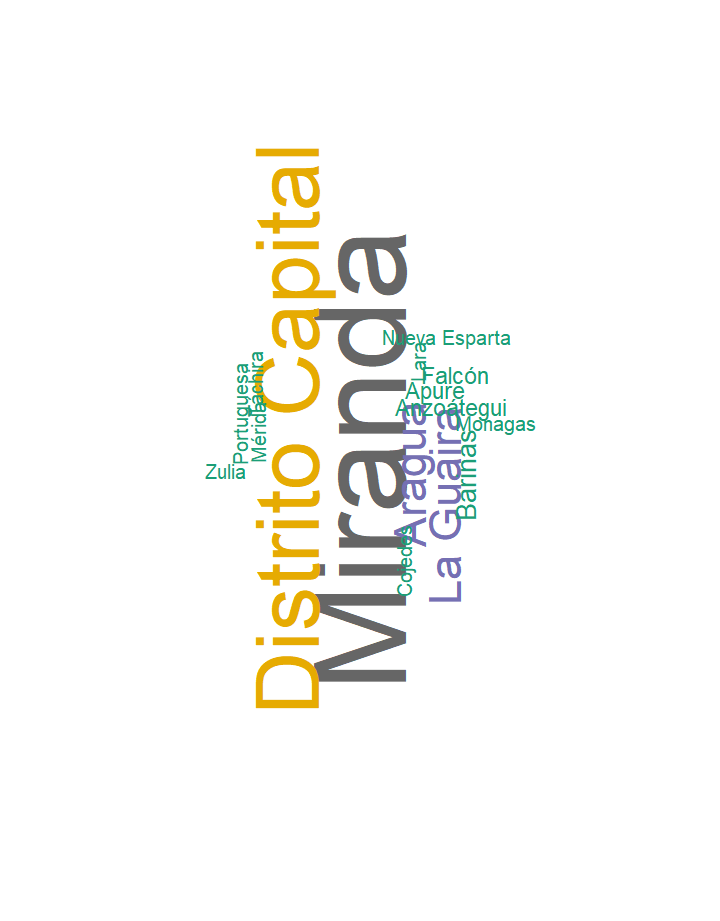
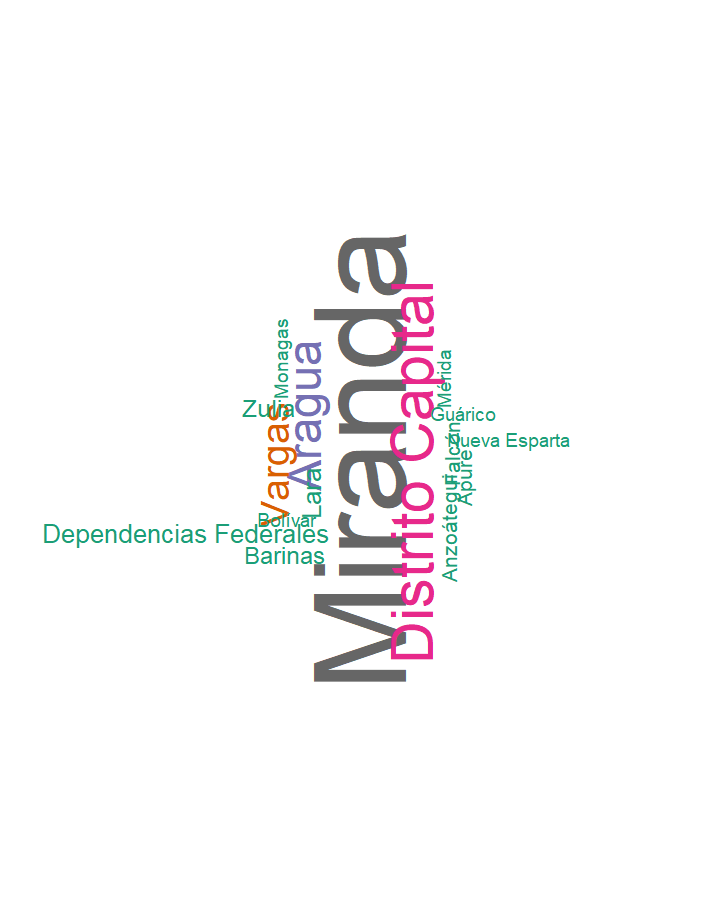
updating cases and modifying script

Changed region(s): [[0.0611, 0.152, 0.4583, 0.7904], [0.5194, 0.304, 0.7944, 0.7296]]

diff --git a/docs/index.html b/docs/index.html
@@ -2607,14 +2607,14 @@ window.FlexDashboardComponents.push({
 <div class="knitr-options" data-fig-width="576" data-fig-height="460">
 
 </div>
-<span class="value-output" data-caption="Total Confirmed Cases" data-icon="fas fa-stethoscope" data-color="Purple">84</span>
+<span class="value-output" data-caption="Total Confirmed Cases" data-icon="fas fa-stethoscope" data-color="Purple">107</span>
 </div>
 <div id="active" class="section level3 value-box">
 <h3>active</h3>
 <div class="knitr-options" data-fig-width="576" data-fig-height="460">
 
 </div>
-<span class="value-output" data-caption="Active Cases" data-icon="fas fa-medkit" data-color="Orange">69</span>
+<span class="value-output" data-caption="Active Cases" data-icon="fas fa-medkit" data-color="Orange">92</span>
 </div>
 <div id="recovered" class="section level3 value-box">
 <h3>recovered</h3>
@@ -2628,7 +2628,7 @@ window.FlexDashboardComponents.push({
 <div class="knitr-options" data-fig-width="576" data-fig-height="460">
 
 </div>
-<span class="value-output" data-caption="Death Cases" data-icon="fas fa-heartbeat" data-color="red">0</span>
+<span class="value-output" data-caption="Death Cases" data-icon="fas fa-heartbeat" data-color="red">1</span>
 </div>
 </div>
 <div id="column-1" class="section level2" data-width="650">
@@ -2638,16 +2638,16 @@ window.FlexDashboardComponents.push({
 <div class="knitr-options" data-fig-width="576" data-fig-height="460">
 
 </div>
-<div id="htmlwidget-d626dc5971321712921a" style="width:576px;height:460.8px;" class="plotly html-widget"></div>
-<script type="application/json" data-for="htmlwidget-d626dc5971321712921a">{"x":{"visdat":{"1be857ef6e60":["function () ","plotlyVisDat"]},"cur_data":"1be857ef6e60","attrs":{"1be857ef6e60":{"x":{},"y":{},"mode":"lines+markers","marker":{"color":"black","size":10},"line":{"color":"black"},"alpha_stroke":1,"sizes":[10,100],"spans":[1,20],"type":"scatter"}},"layout":{"margin":{"b":40,"l":60,"t":25,"r":10},"xaxis":{"domain":[0,1],"automargin":true,"title":"Dates","type":"category","categoryorder":"array","categoryarray":["13-03-2020","14-03-2020","15-03-2020","16-03-2020","17-03-2020","18-03-2020","19-03-2020","21-03-2020","22-03-2020","23-03-2020"]},"yaxis":{"domain":[0,1],"automargin":true,"title":"CasesPerDay"},"hovermode":"closest","showlegend":false},"source":"A","config":{"showSendToCloud":false},"data":[{"x":["13-03-2020","14-03-2020","15-03-2020","16-03-2020","17-03-2020","18-03-2020","19-03-2020","21-03-2020","22-03-2020","23-03-2020"],"y":[2,8,7,16,3,0,6,28,7,7],"mode":"lines+markers","marker":{"color":"black","size":10,"line":{"color":"rgba(31,119,180,1)"}},"line":{"color":"black"},"type":"scatter","error_y":{"color":"rgba(31,119,180,1)"},"error_x":{"color":"rgba(31,119,180,1)"},"xaxis":"x","yaxis":"y","frame":null}],"highlight":{"on":"plotly_click","persistent":false,"dynamic":false,"selectize":false,"opacityDim":0.2,"selected":{"opacity":1},"debounce":0},"shinyEvents":["plotly_hover","plotly_click","plotly_selected","plotly_relayout","plotly_brushed","plotly_brushing","plotly_clickannotation","plotly_doubleclick","plotly_deselect","plotly_afterplot","plotly_sunburstclick"],"base_url":"https://plot.ly"},"evals":[],"jsHooks":[]}</script>
+<div id="htmlwidget-51d7a6373f06e38b45ea" style="width:576px;height:460.8px;" class="plotly html-widget"></div>
+<script type="application/json" data-for="htmlwidget-51d7a6373f06e38b45ea">{"x":{"visdat":{"16d029985a2":["function () ","plotlyVisDat"]},"cur_data":"16d029985a2","attrs":{"16d029985a2":{"x":{},"y":{},"mode":"lines+markers","marker":{"color":"black","size":10},"line":{"color":"black"},"alpha_stroke":1,"sizes":[10,100],"spans":[1,20],"type":"scatter"}},"layout":{"margin":{"b":40,"l":60,"t":25,"r":10},"xaxis":{"domain":[0,1],"automargin":true,"title":"Dates","type":"category","categoryorder":"array","categoryarray":["13-03-2020","14-03-2020","15-03-2020","16-03-2020","17-03-2020","18-03-2020","19-03-2020","21-03-2020","22-03-2020","23-03-2020","24-03-2020","25-03-2020","26-03-2020"]},"yaxis":{"domain":[0,1],"automargin":true,"title":"CasesPerDay"},"hovermode":"closest","showlegend":false},"source":"A","config":{"showSendToCloud":false},"data":[{"x":["13-03-2020","14-03-2020","15-03-2020","16-03-2020","17-03-2020","18-03-2020","19-03-2020","21-03-2020","22-03-2020","23-03-2020","24-03-2020","25-03-2020","26-03-2020"],"y":[2,8,7,16,3,0,6,28,7,7,7,15,1],"mode":"lines+markers","marker":{"color":"black","size":10,"line":{"color":"rgba(31,119,180,1)"}},"line":{"color":"black"},"type":"scatter","error_y":{"color":"rgba(31,119,180,1)"},"error_x":{"color":"rgba(31,119,180,1)"},"xaxis":"x","yaxis":"y","frame":null}],"highlight":{"on":"plotly_click","persistent":false,"dynamic":false,"selectize":false,"opacityDim":0.2,"selected":{"opacity":1},"debounce":0},"shinyEvents":["plotly_hover","plotly_click","plotly_selected","plotly_relayout","plotly_brushed","plotly_brushing","plotly_clickannotation","plotly_doubleclick","plotly_deselect","plotly_afterplot","plotly_sunburstclick"],"base_url":"https://plot.ly"},"evals":[],"jsHooks":[]}</script>
 </div>
 <div id="total-cases-per-day" class="section level3">
 <h3>Total Cases per day</h3>
 <div class="knitr-options" data-fig-width="576" data-fig-height="460">
 
 </div>
-<div id="htmlwidget-a0065228432e3bac99d8" style="width:576px;height:460.8px;" class="plotly html-widget"></div>
-<script type="application/json" data-for="htmlwidget-a0065228432e3bac99d8">{"x":{"visdat":{"1be85dbd2da8":["function () ","plotlyVisDat"]},"cur_data":"1be85dbd2da8","attrs":{"1be85dbd2da8":{"x":{},"y":{},"text":{},"marker":{"color":"#FFA500"},"textposition":"auto","name":"Active","alpha_stroke":1,"sizes":[10,100],"spans":[1,20],"type":"bar"}},"layout":{"margin":{"b":40,"l":60,"t":25,"r":10},"xaxis":{"domain":[0,1],"automargin":true,"title":"Dates","type":"category","categoryorder":"array","categoryarray":["13-03-2020","14-03-2020","15-03-2020","16-03-2020","17-03-2020","18-03-2020","19-03-2020","21-03-2020","22-03-2020","23-03-2020"]},"yaxis":{"domain":[0,1],"automargin":true,"title":"AcumulativeSum"},"hovermode":"closest","showlegend":false},"source":"A","config":{"showSendToCloud":false},"data":[{"x":["13-03-2020","14-03-2020","15-03-2020","16-03-2020","17-03-2020","18-03-2020","19-03-2020","21-03-2020","22-03-2020","23-03-2020"],"y":[2,10,17,33,36,36,42,70,77,84],"text":[2,10,17,33,36,36,42,70,77,84],"marker":{"color":"#FFA500","line":{"color":"rgba(31,119,180,1)"}},"textposition":["auto","auto","auto","auto","auto","auto","auto","auto","auto","auto"],"name":"Active","type":"bar","error_y":{"color":"rgba(31,119,180,1)"},"error_x":{"color":"rgba(31,119,180,1)"},"xaxis":"x","yaxis":"y","frame":null}],"highlight":{"on":"plotly_click","persistent":false,"dynamic":false,"selectize":false,"opacityDim":0.2,"selected":{"opacity":1},"debounce":0},"shinyEvents":["plotly_hover","plotly_click","plotly_selected","plotly_relayout","plotly_brushed","plotly_brushing","plotly_clickannotation","plotly_doubleclick","plotly_deselect","plotly_afterplot","plotly_sunburstclick"],"base_url":"https://plot.ly"},"evals":[],"jsHooks":[]}</script>
+<div id="htmlwidget-259cb05514dc0cac0a37" style="width:576px;height:460.8px;" class="plotly html-widget"></div>
+<script type="application/json" data-for="htmlwidget-259cb05514dc0cac0a37">{"x":{"visdat":{"16d06292724c":["function () ","plotlyVisDat"]},"cur_data":"16d06292724c","attrs":{"16d06292724c":{"x":{},"y":{},"text":{},"marker":{"color":"#FFA500"},"textposition":"auto","name":"Active","alpha_stroke":1,"sizes":[10,100],"spans":[1,20],"type":"bar"}},"layout":{"margin":{"b":40,"l":60,"t":25,"r":10},"xaxis":{"domain":[0,1],"automargin":true,"title":"Dates","type":"category","categoryorder":"array","categoryarray":["13-03-2020","14-03-2020","15-03-2020","16-03-2020","17-03-2020","18-03-2020","19-03-2020","21-03-2020","22-03-2020","23-03-2020","24-03-2020","25-03-2020","26-03-2020"]},"yaxis":{"domain":[0,1],"automargin":true,"title":"AcumulativeSum"},"hovermode":"closest","showlegend":false},"source":"A","config":{"showSendToCloud":false},"data":[{"x":["13-03-2020","14-03-2020","15-03-2020","16-03-2020","17-03-2020","18-03-2020","19-03-2020","21-03-2020","22-03-2020","23-03-2020","24-03-2020","25-03-2020","26-03-2020"],"y":[2,10,17,33,36,36,42,70,77,84,91,106,107],"text":[2,10,17,33,36,36,42,70,77,84,91,106,107],"marker":{"color":"#FFA500","line":{"color":"rgba(31,119,180,1)"}},"textposition":["auto","auto","auto","auto","auto","auto","auto","auto","auto","auto","auto","auto","auto"],"name":"Active","type":"bar","error_y":{"color":"rgba(31,119,180,1)"},"error_x":{"color":"rgba(31,119,180,1)"},"xaxis":"x","yaxis":"y","frame":null}],"highlight":{"on":"plotly_click","persistent":false,"dynamic":false,"selectize":false,"opacityDim":0.2,"selected":{"opacity":1},"debounce":0},"shinyEvents":["plotly_hover","plotly_click","plotly_selected","plotly_relayout","plotly_brushed","plotly_brushing","plotly_clickannotation","plotly_doubleclick","plotly_deselect","plotly_afterplot","plotly_sunburstclick"],"base_url":"https://plot.ly"},"evals":[],"jsHooks":[]}</script>
 </div>
 </div>
 </div>
@@ -2660,8 +2660,8 @@ window.FlexDashboardComponents.push({
 <div class="knitr-options" data-fig-width="576" data-fig-height="460">
 
 </div>
-<div id="htmlwidget-475d8c055066a8c6469b" style="width:576px;height:460.8px;" class="plotly html-widget"></div>
-<script type="application/json" data-for="htmlwidget-475d8c055066a8c6469b">{"x":{"visdat":{"1be866c2585a":["function () ","plotlyVisDat"]},"cur_data":"1be866c2585a","attrs":{"1be866c2585a":{"x":{},"y":{},"text":{},"marker":{"color":"purple"},"textposition":"auto","alpha_stroke":1,"sizes":[10,100],"spans":[1,20],"type":"bar"}},"layout":{"margin":{"b":40,"l":60,"t":25,"r":10},"xaxis":{"domain":[0,1],"automargin":true,"title":"state","type":"category","categoryorder":"array","categoryarray":["Miranda","Distrito Capital","Aragua","La Guaira","Barinas","Anzoátegui","Apure","Falcón","Cojedes","Lara","Mérida","Monagas","Nueva Esparta","Portuguesa","Táchira","Zulia"]},"yaxis":{"domain":[0,1],"automargin":true,"title":"CasesPerState"},"hovermode":"closest","showlegend":false},"source":"A","config":{"showSendToCloud":false},"data":[{"x":["Distrito Capital","Anzoátegui","Apure","Aragua","Barinas","Cojedes","Falcón","Lara","La Guaira","Mérida","Miranda","Monagas","Nueva Esparta","Portuguesa","Táchira","Zulia"],"y":[20,2,2,8,3,1,2,1,8,1,31,1,1,1,1,1],"text":[20,2,2,8,3,1,2,1,8,1,31,1,1,1,1,1],"marker":{"color":"purple","line":{"color":"rgba(31,119,180,1)"}},"textposition":["auto","auto","auto","auto","auto","auto","auto","auto","auto","auto","auto","auto","auto","auto","auto","auto"],"type":"bar","error_y":{"color":"rgba(31,119,180,1)"},"error_x":{"color":"rgba(31,119,180,1)"},"xaxis":"x","yaxis":"y","frame":null}],"highlight":{"on":"plotly_click","persistent":false,"dynamic":false,"selectize":false,"opacityDim":0.2,"selected":{"opacity":1},"debounce":0},"shinyEvents":["plotly_hover","plotly_click","plotly_selected","plotly_relayout","plotly_brushed","plotly_brushing","plotly_clickannotation","plotly_doubleclick","plotly_deselect","plotly_afterplot","plotly_sunburstclick"],"base_url":"https://plot.ly"},"evals":[],"jsHooks":[]}</script>
+<div id="htmlwidget-eda054c7bda5236df7ce" style="width:576px;height:460.8px;" class="plotly html-widget"></div>
+<script type="application/json" data-for="htmlwidget-eda054c7bda5236df7ce">{"x":{"visdat":{"16d0524c1ee9":["function () ","plotlyVisDat"]},"cur_data":"16d0524c1ee9","attrs":{"16d0524c1ee9":{"x":{},"y":{},"text":{},"marker":{"color":"purple"},"textposition":"auto","alpha_stroke":1,"sizes":[10,100],"spans":[1,20],"type":"bar"}},"layout":{"margin":{"b":40,"l":60,"t":25,"r":10},"xaxis":{"domain":[0,1],"automargin":true,"title":"state","type":"category","categoryorder":"array","categoryarray":["Miranda","Distrito Capital","Aragua","Vargas","Lara","Dependencias Federales","Barinas","Zulia","Anzoátegui","Apure","Falcón","Bolívar","Guárico","Mérida","Monagas","Nueva Esparta"]},"yaxis":{"domain":[0,1],"automargin":true,"title":"CasesPerState"},"hovermode":"closest","showlegend":false},"source":"A","config":{"showSendToCloud":false},"data":[{"x":["Distrito Capital","Anzoátegui","Apure","Aragua","Barinas","Bolívar","Falcón","Guárico","Lara","Mérida","Miranda","Monagas","Nueva Esparta","Vargas","Zulia","Dependencias Federales"],"y":[17,2,2,12,3,1,2,1,4,1,44,1,1,9,3,4],"text":[17,2,2,12,3,1,2,1,4,1,44,1,1,9,3,4],"marker":{"color":"purple","line":{"color":"rgba(31,119,180,1)"}},"textposition":["auto","auto","auto","auto","auto","auto","auto","auto","auto","auto","auto","auto","auto","auto","auto","auto"],"type":"bar","error_y":{"color":"rgba(31,119,180,1)"},"error_x":{"color":"rgba(31,119,180,1)"},"xaxis":"x","yaxis":"y","frame":null}],"highlight":{"on":"plotly_click","persistent":false,"dynamic":false,"selectize":false,"opacityDim":0.2,"selected":{"opacity":1},"debounce":0},"shinyEvents":["plotly_hover","plotly_click","plotly_selected","plotly_relayout","plotly_brushed","plotly_brushing","plotly_clickannotation","plotly_doubleclick","plotly_deselect","plotly_afterplot","plotly_sunburstclick"],"base_url":"https://plot.ly"},"evals":[],"jsHooks":[]}</script>
 </div>
 <div id="map" class="section level3">
 <h3>Map</h3>

diff --git a/docs/scrapingwikipediacoronavirusvnzla.py b/docs/scrapingwikipediacoronavirusvnzla.py
@@ -50,7 +50,7 @@ for tag in tags2:
 
 CasosPorEstado=[]
 tags3=tags1[0]('td')
-for tag in tags3[1::2]:
+for tag in tags3[1::3]:
     CasosPorEstado.append(int(tag.contents[0]))
 
 

diff --git a/scrapingwikipediacoronavirusvnzla.py b/scrapingwikipediacoronavirusvnzla.py
@@ -50,7 +50,7 @@ for tag in tags2:
 
 CasosPorEstado=[]
 tags3=tags1[0]('td')
-for tag in tags3[1::2]:
+for tag in tags3[1::3]:
     CasosPorEstado.append(int(tag.contents[0]))
 
 
